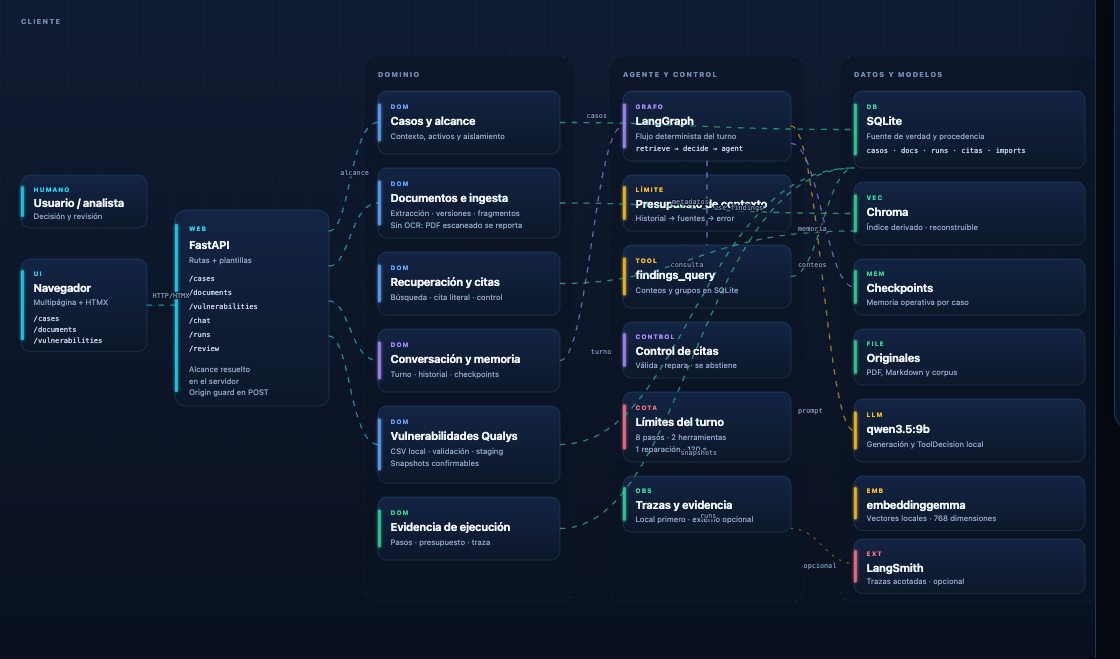
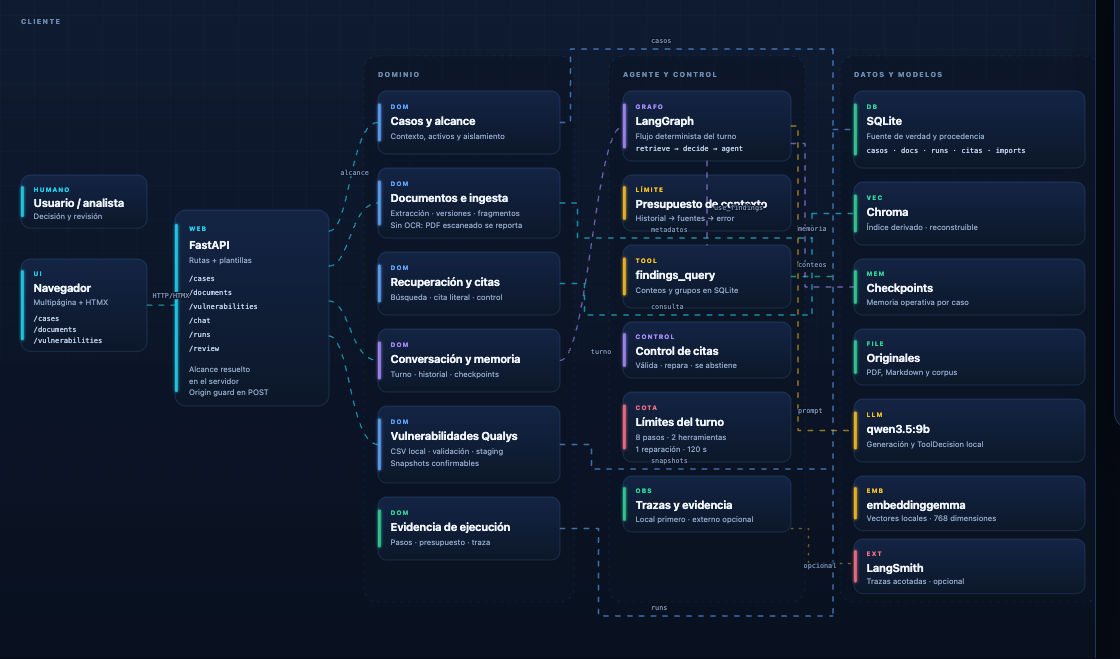
docs: clean up architecture overview connectors

diff --git a/docs/arquitectura/diagrama-arquitectura.html b/docs/arquitectura/diagrama-arquitectura.html
@@ -366,6 +366,7 @@
     }
 
     .flow.cyan { stroke: rgba(34, 211, 238, .62); }
+    .flow.blue { stroke: rgba(96, 165, 250, .62); }
     .flow.violet { stroke: rgba(167, 139, 250, .62); }
     .flow.green { stroke: rgba(52, 211, 153, .62); }
     .flow.amber { stroke: rgba(251, 191, 36, .58); }
@@ -878,30 +879,34 @@
               <path class="flow cyan" d="M470 430 C500 430 500 515 540 515"/>
               <path class="flow cyan" d="M470 480 C500 480 500 635 540 635"/>
 
-              <path class="flow green" d="M800 175 C980 175 1000 185 1220 185"/>
-              <path class="flow green" d="M800 290 C980 290 1000 305 1220 305"/>
-              <path class="flow green" d="M800 405 C980 405 1000 330 1220 330"/>
-              <path class="flow green" d="M800 635 C980 635 1000 240 1220 240"/>
-              <path class="flow green" d="M800 755 C980 755 1000 240 1220 240"/>
+              <path class="flow blue" d="M1190 70 L1190 880"/>
+              <path class="flow blue" d="M1190 185 L1220 185"/>
+              <path class="flow blue" d="M800 175 L815 175 L815 70 L1190 70"/>
+              <path class="flow blue" d="M800 635 L845 635 L845 670 L1190 670"/>
+              <path class="flow blue" d="M800 755 L855 755 L855 880 L1190 880"/>
+              <path class="flow cyan" d="M1160 305 L1160 450"/>
+              <path class="flow cyan" d="M1160 305 L1220 305"/>
+              <path class="flow cyan" d="M800 290 L825 290 L825 340 L1160 340"/>
+              <path class="flow cyan" d="M800 405 L835 405 L835 450 L1160 450"/>
 
               <path class="flow violet" d="M800 515 C840 515 850 180 890 180"/>
-              <path class="flow amber" d="M1130 180 C1170 180 1180 615 1220 615"/>
+              <path class="flow amber" d="M1130 180 L1140 180 L1140 615 L1220 615"/>
               <path class="flow violet" d="M1010 230 L1010 350"/>
-              <path class="flow green" d="M1130 395 C1170 395 1180 240 1220 240"/>
-              <path class="flow violet" d="M1130 205 C1170 205 1180 410 1220 410"/>
-              <path class="flow amber dashed" d="M1130 755 C1170 755 1180 805 1220 805"/>
+              <path class="flow green" d="M1130 395 L1190 395"/>
+              <path class="flow violet" d="M1130 205 L1150 205 L1150 410 L1220 410"/>
+              <path class="flow amber dashed" d="M1130 755 L1155 755 L1155 805 L1220 805"/>
 
               <text class="edge-label" x="218" y="426">HTTP/HTMX</text>
               <text class="edge-label" x="486" y="250">alcance</text>
-              <text class="edge-label" x="838" y="168">casos</text>
-              <text class="edge-label" x="960" y="292">metadatos</text>
-              <text class="edge-label" x="958" y="382">consulta</text>
+              <text class="edge-label" x="930" y="62">casos</text>
+              <text class="edge-label" x="930" y="332">metadatos</text>
+              <text class="edge-label" x="930" y="442">consulta</text>
               <text class="edge-label" x="844" y="505">turno</text>
               <text class="edge-label" x="1140" y="590">prompt</text>
               <text class="edge-label" x="1020" y="300">use_findings</text>
               <text class="edge-label" x="1140" y="382">conteos</text>
-              <text class="edge-label" x="972" y="650">snapshots</text>
-              <text class="edge-label" x="1000" y="740">runs</text>
+              <text class="edge-label" x="930" y="662">snapshots</text>
+              <text class="edge-label" x="930" y="872">runs</text>
               <text class="edge-label" x="1140" y="330">memoria</text>
               <text class="edge-label" x="1148" y="812">opcional</text>
             </g>
